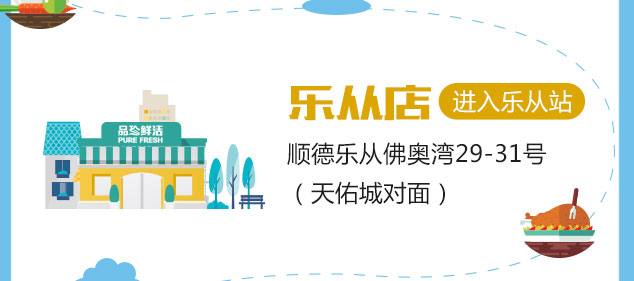
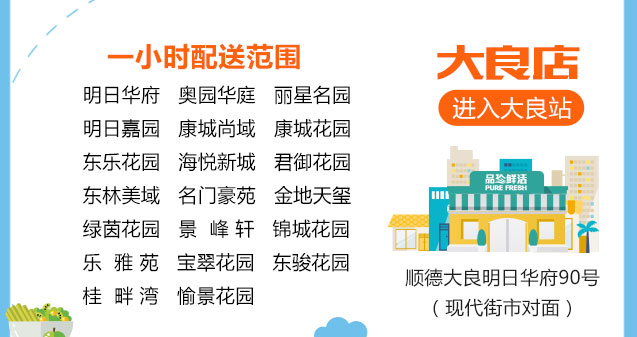
微信 商城入口添加广州店

diff --git a/custom/wap/view/wap/enterpage.html b/custom/wap/view/wap/enterpage.html
@@ -26,17 +26,22 @@ div img{width:100%;height:auto; overflow:hidden;}
 <div>
   <a href="https://open.weixin.qq.com/connect/oauth2/authorize?appid=wx8a9533e11b69d7a2&redirect_uri=http%3A%2F%2Fwww.pzfresh.com%2Findex.php%2Fwap&response_type=code&scope=snsapi_base&state=573174#wechat_redirect"><img src="<{$IMG_PZFRESH}>/public/app/wap/statics/images/cover/main_link_01.jpg" /></a>
 </div>
+
 <div>
-  <a href="http://wap.koudaitong.com/v2/home/1gqo5u27f"><img src="<{$IMG_PZFRESH}>/public/app/wap/statics/images/cover/main_link_02.jpg" /></a>
+  <a href="http://wap.koudaitong.com/v2/home/uhqx21wx"><img src="<{$IMG_PZFRESH}>/public/app/wap/statics/images/cover/main_link_02.jpg" /></a>
+</div>
+
+<div>
+  <a href="http://wap.koudaitong.com/v2/home/1gqo5u27f"><img src="<{$IMG_PZFRESH}>/public/app/wap/statics/images/cover/main_link_03.jpg" /></a>
 </div>
 <div>
-  <a href="http://wap.koudaitong.com/v2/home/ccwvnqcs"><img src="<{$IMG_PZFRESH}>/public/app/wap/statics/images/cover/main_link_03.jpg" /></a>
+  <a href="http://wap.koudaitong.com/v2/home/ccwvnqcs"><img src="<{$IMG_PZFRESH}>/public/app/wap/statics/images/cover/main_link_04.jpg" /></a>
 </div>
 <div>
-  <a href="http://wap.koudaitong.com/v2/home/yj1tewvi"><img src="<{$IMG_PZFRESH}>/public/app/wap/statics/images/cover/main_link_04.jpg" /></a>
+  <a href="http://wap.koudaitong.com/v2/home/yj1tewvi"><img src="<{$IMG_PZFRESH}>/public/app/wap/statics/images/cover/main_link_05.jpg" /></a>
 </div>
 <div>
-  <a href="http://wap.koudaitong.com/v2/home/9slrnkhl"><img src="<{$IMG_PZFRESH}>/public/app/wap/statics/images/cover/main_link_05.jpg" /></a>
+  <a href="http://wap.koudaitong.com/v2/home/9slrnkhl"><img src="<{$IMG_PZFRESH}>/public/app/wap/statics/images/cover/main_link_06.jpg" /></a>
 </div>
 <div>
 <img src="<{$IMG_PZFRESH}>/public/app/wap/statics/images/cover/main_link_07.jpg" />
